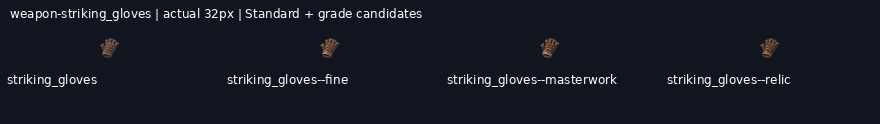
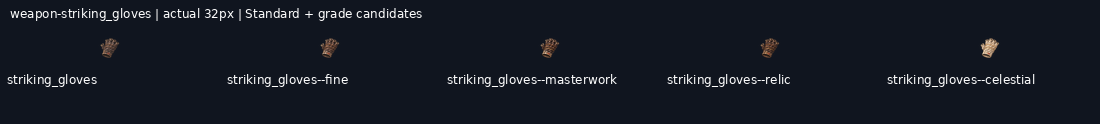
art: draw weapon-striking_gloves--celestial grade candidate

diff --git a/art/_archive/gear/2026-11-19-kept-blade-grades/HANDOFF.md b/art/_archive/gear/2026-11-19-kept-blade-grades/HANDOFF.md
@@ -1,9 +1,9 @@
 # Kept-blade grade candidates
 
-**28/68 grade candidates delivered** on `art/2026-11-19-kept-blade-grades`. Shared mailbox: https://github.com/leonpentastorm/Project-Heaven-Cry/issues/3 . See claim.json for this lane’s current Standards. Released overlapping blades reuse12 peer candidates, with3 local alternatives archived.
+**29/68 grade candidates delivered** on `art/2026-11-19-kept-blade-grades`. Shared mailbox: https://github.com/leonpentastorm/Project-Heaven-Cry/issues/3 . See claim.json for this lane’s current Standards. Released overlapping blades reuse12 peer candidates, with3 local alternatives archived.
 
 Leon requested continuous candidate production; proof approval is not fabricated. All candidates remain review-candidate, production_approved:false, implementation_ready:false, with outline.review_required:true. Exact outline is measured, never asserted unless the masks match. Per-image registration is uniform scaling/translation only, without warp, silhouette masks, filled pixels or code-drawn substitutes. The generated native remains untouched.
 
 Each image is generated, shown, technically exported, validated, committed and pushed before the next. Sources, versioned masters, exact prompts/reference hashes,256/128/64/32 exports and grade comparison sheets are retained. Standards and earlier deliveries are unchanged. This sparse checkout cannot validate omitted historical files; full-library validation/build is an integration check on a full checkout.
 
-Remaining: weapon-ork_machete--masterwork, weapon-ork_machete--relic, weapon-ork_machete--celestial, weapon-war_axe--fine, weapon-war_axe--masterwork, weapon-war_axe--relic, weapon-war_axe--celestial, weapon-striking_gloves--celestial, weapon-hand_wraps--fine, weapon-hand_wraps--masterwork, weapon-hand_wraps--relic, weapon-hand_wraps--celestial, weapon-knuckledusters--fine, weapon-knuckledusters--masterwork, weapon-knuckledusters--relic, weapon-knuckledusters--celestial, weapon-kemizuchi_strikers--fine, weapon-kemizuchi_strikers--masterwork, weapon-kemizuchi_strikers--relic, weapon-kemizuchi_strikers--celestial, weapon-iron_mitts--fine, weapon-iron_mitts--masterwork, weapon-iron_mitts--relic, weapon-iron_mitts--celestial, focus-evoker--fine, focus-evoker--masterwork, focus-evoker--relic, focus-evoker--celestial, focus-emanator--fine, focus-emanator--masterwork, focus-emanator--relic, focus-emanator--celestial, focus-visualizer--fine, focus-visualizer--masterwork, focus-visualizer--relic, focus-visualizer--celestial, focus-attuner--fine, focus-attuner--masterwork, focus-attuner--relic, focus-attuner--celestial.
+Remaining: weapon-ork_machete--masterwork, weapon-ork_machete--relic, weapon-ork_machete--celestial, weapon-war_axe--fine, weapon-war_axe--masterwork, weapon-war_axe--relic, weapon-war_axe--celestial, weapon-hand_wraps--fine, weapon-hand_wraps--masterwork, weapon-hand_wraps--relic, weapon-hand_wraps--celestial, weapon-knuckledusters--fine, weapon-knuckledusters--masterwork, weapon-knuckledusters--relic, weapon-knuckledusters--celestial, weapon-kemizuchi_strikers--fine, weapon-kemizuchi_strikers--masterwork, weapon-kemizuchi_strikers--relic, weapon-kemizuchi_strikers--celestial, weapon-iron_mitts--fine, weapon-iron_mitts--masterwork, weapon-iron_mitts--relic, weapon-iron_mitts--celestial, focus-evoker--fine, focus-evoker--masterwork, focus-evoker--relic, focus-evoker--celestial, focus-emanator--fine, focus-emanator--masterwork, focus-emanator--relic, focus-emanator--celestial, focus-visualizer--fine, focus-visualizer--masterwork, focus-visualizer--relic, focus-visualizer--celestial, focus-attuner--fine, focus-attuner--masterwork, focus-attuner--relic, focus-attuner--celestial.
